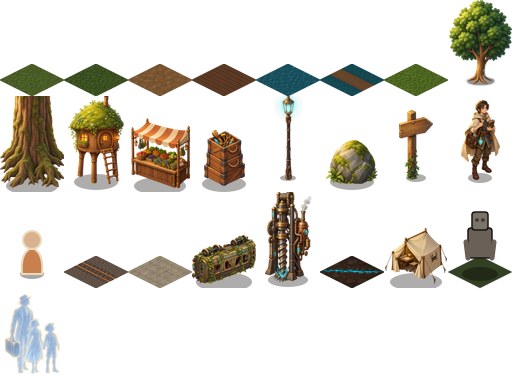
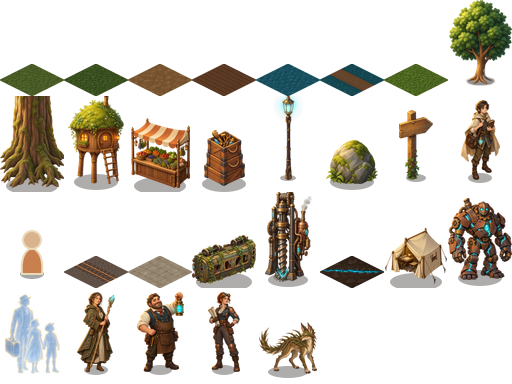
Phase 2, lot 3 : personnages peints, une tuile par PNJ et par ennemi
Ilyane, Tobias, Ingrid, Golem de Ferraille, Rôdeur-Épine. Les PNJ prennent la tuile
de leur nom, les ennemis celle du champ tile ; noms, barres de vie et zone de clic
remontés à la hauteur des nouveaux personnages.

diff --git a/src/scenes/CombatScene.ts b/src/scenes/CombatScene.ts
@@ -65,6 +65,8 @@ export class CombatScene extends Phaser.Scene {
   private state!: GameState;
   private config!: CombatStartData;
   private combatants: Combatant[] = [];
+  /** Tile name drawn for each combatant, by combatant id. */
+  private tileNames = new Map<string, string>();
   private order: Combatant[] = [];
   private turnIndex = 0;
   private arena!: Arena;
@@ -113,6 +115,7 @@ export class CombatScene extends Phaser.Scene {
     const enemyDefs = data.enemyIds.map((id) => findEnemy(id)!);
     const enemies = enemyDefs.map((def, i) => makeEnemyCombatant(def, `${def.id}-${i}`, data.enemyTiles[i]));
     this.combatants = [hero, ...enemies];
+    this.tileNames = new Map([[hero.id, 'heros'], ...enemies.map((c, i): [string, string] => [c.id, enemyDefs[i].tile])]);
     numberDuplicateNames(this.combatants);
     this.hovered = null;
     const initiativeBonus = new Map<string, number>(enemies.map((c, i) => [c.id, enemyDefs[i].initiativeBonus]));
@@ -179,12 +182,11 @@ export class CombatScene extends Phaser.Scene {
 
   private addToken(c: Combatant): void {
     const f = this.feet(c.tile);
-    const frame = c.side === 'heroes' ? this.frames.heros : this.frames.pnj;
+    const frame = this.frames[this.tileNames.get(c.id) ?? 'pnj'] ?? this.frames.pnj;
     const image = this.add.image(f.x, f.y, 'tiles', frame).setOrigin(0.5, 1).setScale(LAYOUT.arenaScale).setDepth(f.y + 1);
-    if (c.side === 'enemies') image.setTint(c.id.startsWith('golem') ? 0x8a8276 : 0xb5653a);
     const hpBar = this.add.graphics().setDepth(6000);
     const name = this.add
-      .text(f.x, f.y - 70 * LAYOUT.arenaScale, c.name, { fontFamily: FONT_SERIF, fontSize: '16px', color: CSS.parchment, stroke: CSS.ink, strokeThickness: 3 })
+      .text(f.x, f.y - 104 * LAYOUT.arenaScale, c.name, { fontFamily: FONT_SERIF, fontSize: '16px', color: CSS.parchment, stroke: CSS.ink, strokeThickness: 3 })
       .setOrigin(0.5, 1)
       .setDepth(6001)
       .setVisible(false);
@@ -208,7 +210,7 @@ export class CombatScene extends Phaser.Scene {
     token.image.setPosition(f.x, f.y).setDepth(f.y + 1).setAlpha(c.defeated ? 0.25 : 1);
 
     const x = f.x - HP_BAR_WIDTH / 2;
-    const y = f.y - 64 * LAYOUT.arenaScale;
+    const y = f.y - 98 * LAYOUT.arenaScale;
     const ratio = c.maxHp > 0 ? c.hp / c.maxHp : 0;
     token.hpBar.clear();
     if (!c.defeated) {

diff --git a/src/scenes/MapScene.ts b/src/scenes/MapScene.ts
@@ -145,10 +145,11 @@ export class MapScene extends Phaser.Scene {
   private drawNpcs(): void {
     for (const npc of this.map.objects.filter((o) => o.type === 'pnj')) {
       const f = this.feet(npc);
-      const image = this.add.image(f.x, f.y, 'tiles', this.map.frames.pnj).setOrigin(0.5, 1).setDepth(f.y);
+      const frame = this.map.frames[npc.name] ?? this.map.frames.pnj;
+      const image = this.add.image(f.x, f.y, 'tiles', frame).setOrigin(0.5, 1).setDepth(f.y);
       this.interactables.push({ object: npc, image });
       this.add
-        .text(f.x, f.y - 62, npcName(npc), { fontFamily: FONT_SERIF, fontSize: '13px', color: CSS.parchment, stroke: CSS.ink, strokeThickness: 3 })
+        .text(f.x, f.y - 94, npcName(npc), { fontFamily: FONT_SERIF, fontSize: '13px', color: CSS.parchment, stroke: CSS.ink, strokeThickness: 3 })
         .setOrigin(0.5, 1)
         .setDepth(100000);
     }
@@ -332,7 +333,7 @@ export class MapScene extends Phaser.Scene {
 function hitsBody(image: Phaser.GameObjects.Image, x: number, y: number): boolean {
   const left = image.x - 18;
   const right = image.x + 18;
-  const top = image.y - 62;
+  const top = image.y - 92;
   const bottom = image.y - 4;
   return x >= left && x <= right && y >= top && y <= bottom;
 }

diff --git a/src/engine/map.test.ts b/src/engine/map.test.ts
@@ -3,6 +3,7 @@ import gardeboisJson from '../data/maps/gardebois.json';
 import gareEngloutieJson from '../data/maps/gare-engloutie.json';
 import npcData from '../data/npcs.json';
 import type { Tile } from './iso';
+import { ENEMIES } from '../rules/combat';
 import { findPath } from './pathfinding';
 import { findObject, isWalkable, parseTiledMap, tileKey, type TiledMapJson } from './tiledMap';
 
@@ -148,5 +149,17 @@ describe('La Gare Engloutie map (Tiled data)', () => {
       for (const col of [0, gareEngloutie.width - 1]) if (isWalkable(gareEngloutie, { col, row })) openings.push(`${col},${row}`);
     }
     expect(openings.sort()).toEqual(['0,9']);
+  });
+});
+
+describe('character tiles', () => {
+  it('gives every map NPC the tile named after it', () => {
+    for (const map of [gardebois, gareEngloutie]) {
+      for (const npc of map.objects.filter((o) => o.type === 'pnj')) expect(map.frames[npc.name], npc.name).toBeDefined();
+    }
+  });
+
+  it('gives every enemy an existing tile', () => {
+    for (const enemy of ENEMIES) expect(gardebois.frames[enemy.tile], enemy.id).toBeDefined();
   });
 });

diff --git a/src/rules/combat.ts b/src/rules/combat.ts
@@ -31,6 +31,8 @@ export interface EnemyDef {
   initiativeBonus: number;
   xp: number;
   defeatText: string;
+  /** Tile drawn for this enemy (name in scripts/tiles-def.mjs). */
+  tile: string;
 }
 
 export const WEAPONS = weaponData as WeaponDef[];

diff --git a/docs/ASSETS.md b/docs/ASSETS.md
@@ -154,10 +154,33 @@ d'abord été refusées par Higgsfield (`429 rate_limit_reached`, rien de débit
 l'échelle, pied posé sur la case, ombre d'encre ajoutée. Deux images avaient un fond « transparent » raté : la maison
 (damier gris peint derrière elle, alpha 93 % partout) et le wagon (halo blanc) ; l'option `matte` du script efface le
 fond clair relié au bord et rend le reste opaque. L'Écho est rendu à 70 % d'opacité. 23 tuiles peintes sur 25 (restent
-le PNJ générique et le Golem, lot 3).
+le PNJ générique et le Golem, lot 3 : fait).
 
 Remarques :
 - Le Tronc d'Arbre-Titan occupe 2 × 2 cases faites de la même tuile : l'ensemble se lit comme une masse de racines.
   Un vrai décor sur plusieurs cases demanderait de découper une grande image ; hors plan.
 - Le wagon occupe 2 cases : on voit deux wagons renversés côte à côte.
 - Sur la carte de la Gare, la Faille (case 20, 9) est presque cachée par un arbre placé devant (déjà le cas avant).
+
+### Lot 3 : personnages (2026-11-01, 5 images, 2,5 crédits, solde 93,5)
+
+Tous gardés au premier essai, fond transparent propre. Réglages : Higgsfield MCP, `gpt_image_2_5`, 1k, qualité
+moyenne, transparent. Prompt = bloc commun + isométrique (« single character / creature centered ») + sujet + « stands
+directly on the bottom of the image: no ground, no base, no cast shadow on the ground » + à éviter. Descriptions :
+`docs/STYLE.md` (« Personnages »). Ilyane : son portrait du pilote donné en référence (`image_references`) pour garder
+le même visage et la même cape.
+
+| Fichier (`assets/raw/lot3/`) | Format | Sujet du prompt | Coût |
+|---|---|---|---|
+| `ilyane.png` | 2:3 | « Full-body character, three-quarter front view, standing: the same woman as in the reference portrait, Ilyane, a kind middle-aged guardian of memories from a forest people, same face, same braided greying hair with leaves, same cloak patterned with bark and leaves, holding her light wooden staff topped with a softly glowing cyan crystal, warm benevolent expression » | 0,5 |
+| `tobias.png` | 2:3 | « Tobias, a jovial stocky merchant from an industrial empire, leather apron over a waistcoat with brass buttons, rolled-up sleeves, small tools hanging at his belt, holding up a lamp with a glowing cyan crystal, friendly smile » | 0,5 |
+| `ingrid.png` | 2:3 | « Ingrid, a determined woman engineer from an industrial empire, brass protective goggles pushed up on her forehead, sturdy work jacket reinforced with copper plates and rivets, work trousers and boots, rolled-up plans under one arm, confident stance » | 0,5 |
+| `golem.png` | 1:1 | « a Scrap Golem, a massive half-mechanical half-magical automaton assembled from rusty scrap iron plates and old machine parts, gears and pipes, with veins of glowing cyan tellurian light between the plates and two calm cyan glowing eyes, hulking and impressive but not scary » | 0,5 |
+| `rodeur-epine.png` | 1:1 | « standing on four legs: a Thorn Prowler, a lean and agile wild canine creature whose back and tail are covered with long flexible thorny spines in green and brown like brambles, alert ears, lively stance ready to pounce, mouth closed, impressive but not frightening » | 0,5 |
+
+**Code** : quatre tuiles ajoutées en fin de planche (`ilyane`, `tobias`, `ingrid`, `rodeur-epine`, les numéros des
+autres tuiles ne changent pas). Sur la carte, un PNJ prend la tuile de son nom (repli : `pnj`) ; en combat, un ennemi
+prend la tuile de son champ `tile` (`src/data/enemies.json`) et n'est plus teinté. Noms, barres de vie et zone de clic
+remontés à la hauteur des nouveaux personnages. Test : chaque PNJ et chaque ennemi a sa tuile. Vérifié dans le jeu
+(Marché avec Ilyane et Tobias ; combat du Golem et des deux Rôdeurs-Épine). Seule la tuile `pnj` générique reste
+provisoire (repli, plus utilisée par les cartes actuelles).

diff --git a/docs/JOURNAL.md b/docs/JOURNAL.md
@@ -15,10 +15,10 @@
 
 ## Prochaine étape
 
-1. Pilote validé par Cyril (style et héros) le 2026-11-01. **Lots 1 (8 sols) et 2 (12 décors) générés et intégrés** :
-   23 tuiles peintes sur 25 dans `public/tiles/tiles.png` (`npm run art` puis `npm run tiles`). 14 crédits dépensés
-   depuis le début, reste 96. Suite : **lot 3 (personnages : Ilyane, Tobias, Ingrid, Golem, Rôdeur-Épine)**, environ
-   2,5 crédits ; demande du code : PNJ et ennemis du combat partagent aujourd'hui la seule tuile `pnj`.
+1. Pilote validé par Cyril (style et héros) le 2026-11-01. **Lots 1 à 3 générés et intégrés** (sols, décors,
+   personnages) : 28 tuiles peintes sur 29 dans `public/tiles/tiles.png` (`npm run art` puis `npm run tiles`) ;
+   chaque PNJ et chaque ennemi a sa tuile. 16,5 crédits dépensés, reste 93,5. Suite : **lot 4 (portraits de
+   dialogue)**, environ 4,5 crédits et du code (afficher un portrait dans le panneau de dialogue), puis lot 5.
 2. Après les visuels : proposer le périmètre du jalon 2 (contenu).
 
 ## Points ouverts

diff --git a/docs/archive/journal-2026-11.md b/docs/archive/journal-2026-11.md
@@ -588,3 +588,7 @@ Le passage au jalon suivant attend le feu vert de Cyril (`CLAUDE.md` §4).
   décor, option `matte` (fond clair raté : damier peint derrière la maison, halo blanc autour du wagon), opacité
   (Écho à 70 %), Faille en texture sans raccord. 23 tuiles peintes sur 25. Vérifié en rendu des deux cartes ; la
   Faille est presque cachée par un arbre placé devant (déjà le cas avant).
+- Lot 3 lancé par Cyril : Ilyane (portrait du pilote en référence), Tobias, Ingrid, Golem, Rôdeur-Épine ; 2,5 crédits,
+  93,5 restants, tous gardés. Code : une tuile par PNJ (par son nom) et par ennemi (champ `tile` d'`enemies.json`),
+  teinte des ennemis retirée, noms, barres de vie et zone de clic remontés ; test ajouté (183 tests). Vérifié dans le
+  jeu, carte et combat.

diff --git a/docs/STYLE.md b/docs/STYLE.md
@@ -54,7 +54,7 @@ Pour les tuiles, décors et personnages, on ajoute : `isometric 2:1 view, single
 background`. À éviter dans tous les prompts : `text, letters, logo, watermark, blood, gore, modern firearms, screens,
 photorealistic`.
 
-## Personnages (descriptions visuelles proposées, à valider)
+## Personnages (descriptions visuelles proposées ; héros validé, les autres utilisées pour le lot 3 le 2026-11-01)
 
 Le canon donne leur rôle, pas leur apparence. Tout ce qui suit est une **proposition**.
 
